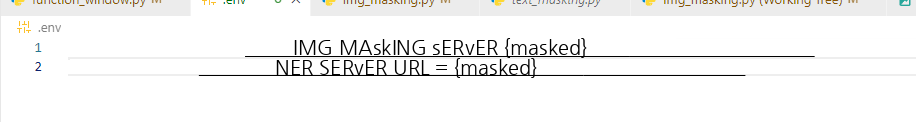
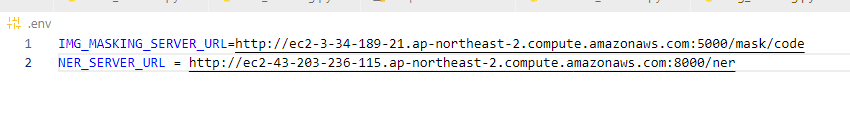
feat: implement img masking tap (#2)

diff --git a/masking/img_masking.py b/masking/img_masking.py
@@ -1,48 +1,158 @@
 import os
+import sys
 import time
 import requests
-from PIL import ImageGrab
+from PIL import ImageGrab, Image
 from dotenv import load_dotenv
 
-def main():
-    load_dotenv()
+from PyQt5.QtWidgets import (
+    QApplication, QWidget, QVBoxLayout, QLabel, QPushButton, QTabWidget, QMessageBox
+)
+from PyQt5.QtGui import QPixmap, QFontDatabase, QFont
+from PyQt5.QtCore import Qt, QTimer, QThread, pyqtSignal
 
-    IMG_MASKING_SERVER_URL = os.getenv("IMG_MASKING_SERVER_URL")
-    if not IMG_MASKING_SERVER_URL:
-        print("❌ IMG_MASKING_SERVER_URL 환경 변수가 설정되지 않았습니다.")
-        return
+class MaskingWorker(QThread):
+    finished = pyqtSignal(str)
+    error = pyqtSignal(str)
 
-    print("🚧 이미지 클립보드 감시 중...")
+    def __init__(self, server_url, img_path, save_path):
+        super().__init__()
+        self.server_url = server_url
+        self.img_path = img_path
+        self.save_path = save_path
 
-    last_clip = None
+    def run(self):
+        try:
+            with open(self.img_path, "rb") as f:
+                res = requests.post(self.server_url, files={"image": f})
+            if res.status_code == 200:
+                with open(self.save_path, "wb") as out:
+                    out.write(res.content)
+                self.finished.emit(self.save_path)
+            else:
+                self.error.emit(f"❌ 서버 오류: {res.status_code}")
+        except Exception as e:
+            self.error.emit(f"❌ 요청 실패: {e}")
 
-    while True:
+class ImageMaskingApp(QWidget):
+    def __init__(self):
+        super().__init__()
+        self.setWindowTitle("Erase Me : Image Masking")
+        self.resize(600, 500)
+
+        # 환경변수 로드
+        load_dotenv()
+        self.server_url = os.getenv("IMG_MASKING_SERVER_URL")
+        if not self.server_url:
+            QMessageBox.critical(self, "에러", "❌ IMG_MASKING_SERVER_URL 환경 변수가 설정되지 않았습니다.")
+            sys.exit(1)
+
+        # 글꼴 등록 및 기본 폰트 설정
+        font_id = QFontDatabase.addApplicationFont("./public/Pretendard-Regular.otf")
+        if font_id != -1:
+            font_family = QFontDatabase.applicationFontFamilies(font_id)[0]
+            app_font = QFont(font_family)
+            app_font.setPointSize(app_font.pointSize() + 2)  # 폰트 크기 2px 증가
+            QApplication.setFont(app_font)
+
+        # 레이아웃
+        self.layout = QVBoxLayout()
+
+        self.status_label = QLabel("🚧 이미지 클립보드 감시 중...")
+        self.status_label.setAlignment(Qt.AlignCenter)
+        self.layout.addWidget(self.status_label)
+
+        # 탭
+        self.tabs = QTabWidget()
+        self.masked_image_label = QLabel("마스킹된 이미지가 여기에 표시됩니다.")
+        self.masked_image_label.setAlignment(Qt.AlignCenter)
+        self.tabs.addTab(self.masked_image_label, "마스킹 결과")
+        self.layout.addWidget(self.tabs)
+
+        # 클립보드 복사 버튼
+        self.copy_button = QPushButton("마스킹 이미지 클립보드 복사")
+        self.copy_button.setMinimumHeight(50)  # 버튼 높이 증가
+        self.copy_button.clicked.connect(self.copy_image_to_clipboard)
+        self.copy_button.setEnabled(False)
+        self.layout.addWidget(self.copy_button)
+
+        self.setLayout(self.layout)
+
+        # 상태 변수
+        self.last_clip = None
+        self.is_processing = False
+
+        # 타이머로 감시
+        self.timer = QTimer()
+        self.timer.timeout.connect(self.monitor_clipboard)
+        self.timer.start(500)  # 0.5초마다 감시
+
+    def monitor_clipboard(self):
+        if self.is_processing:
+            return  # 처리 중이면 감시 중단
+
         img = ImageGrab.grabclipboard()
-        if img is not None and img != last_clip:
-            last_clip = img
+        if img is not None and img != self.last_clip:
+            self.last_clip = img
             img_path = "img/code.png"
             os.makedirs("img", exist_ok=True)
             img.save(img_path)
             print(f"✅ 캡처 이미지 저장됨: {img_path}")
 
-            # 서버로 업로드: 블로킹
-            try:
-                with open(img_path, "rb") as f:
-                    print("📡 서버로 업로드 중...")
-                    res = requests.post(
-                        IMG_MASKING_SERVER_URL,
-                        files={"image": f}
-                    )
-                if res.status_code == 200:
-                    with open("masked_result.png", "wb") as out:
-                        out.write(res.content)
-                    print("🎉 마스킹된 이미지 저장됨: masked_result.png")
-                else:
-                    print(f"❌ 서버 오류: {res.status_code}")
-            except Exception as e:
-                print(f"❌ 요청 실패: {e}")
+            # 창을 최상단에 띄우기
+            self.setWindowFlags(self.windowFlags() | Qt.WindowStaysOnTopHint)
+            self.show()
+            self.raise_()
+            self.activateWindow()
 
-        time.sleep(0.5)  # 주기적 감시 (0.5초마다)
+            # UI 업데이트
+            self.masked_image_label.setText("⏳ 서버로 이미지 전송 중...")
+            self.copy_button.setEnabled(False)
+
+            # 서버 요청 쓰레드 실행
+            self.is_processing = True
+            self.worker = MaskingWorker(
+                self.server_url,
+                img_path,
+                "masked_result.png"
+            )
+            self.worker.finished.connect(self.update_masked_image)
+            self.worker.error.connect(self.show_error)
+            self.worker.start()
+
+    def update_masked_image(self, path):
+        pixmap = QPixmap(path)
+        if not pixmap.isNull():
+            self.masked_image_label.setPixmap(pixmap.scaled(500, 400, Qt.KeepAspectRatio, Qt.SmoothTransformation))
+            self.copy_button.setEnabled(True)
+        else:
+            self.masked_image_label.setText("❌ 이미지 로딩 실패")
+            self.copy_button.setEnabled(False)
+
+        self.setWindowFlags(self.windowFlags() & ~Qt.WindowStaysOnTopHint)
+        self.show()
+        self.is_processing = False
+
+    def show_error(self, message):
+        QMessageBox.critical(self, "에러", message)
+        self.masked_image_label.setText("❌ 서버 요청 실패")
+        self.copy_button.setEnabled(False)
+        self.is_processing = False
+
+        self.setWindowFlags(self.windowFlags() & ~Qt.WindowStaysOnTopHint)
+        self.show()
+
+    def copy_image_to_clipboard(self):
+        clipboard = QApplication.clipboard()
+        pixmap = self.masked_image_label.pixmap()
+        if pixmap:
+            clipboard.setPixmap(pixmap)
+            QMessageBox.information(self, "성공", "✅ 마스킹 이미지를 클립보드에 복사했습니다.")
+        else:
+            QMessageBox.warning(self, "오류", "❌ 복사할 이미지가 없습니다.")
 
 if __name__ == "__main__":
-    main()
+    app = QApplication(sys.argv)
+    window = ImageMaskingApp()
+    window.show()
+    sys.exit(app.exec_())
